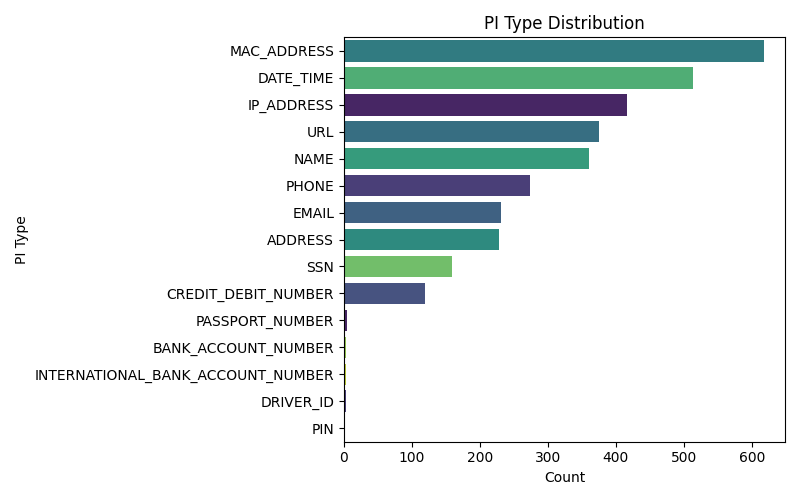
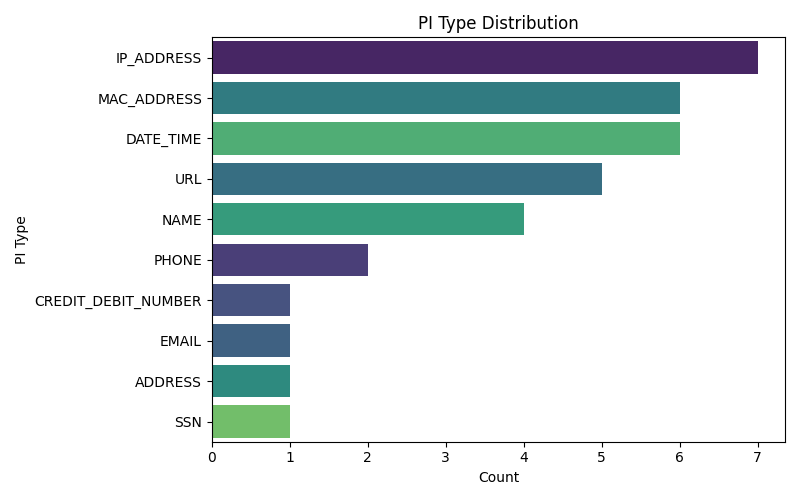
May 8, 2025, 1:12 PM

diff --git a/reports/PI_detection_report.md b/reports/PI_detection_report.md
@@ -1,18 +1,18 @@
 # PI Detection Report
-**Generated:** 2025-05-07 17:36:09
+**Generated:** 2025-05-08 13:12:19
 
 ## Summary Statistics
-- Total Detections: 3310
-- Unique PI Types: 15
-- Average Confidence: 0.9551
+- Total Detections: 34
+- Unique PI Types: 10
+- Average Confidence: 0.9358
 - Median Confidence: 1.0000
 - Fields with PI: 6
-- Rows with PI: 968
+- Rows with PI: 9
 
 ## Confidence Distribution
-- High Confidence (> 0.9): 87.1%
-- Medium Confidence (0.7 - 0.9): 6.7%
-- Low Confidence (<= 0.7): 6.2%
+- High Confidence (> 0.9): 85.3%
+- Medium Confidence (0.7 - 0.9): 0.0%
+- Low Confidence (<= 0.7): 14.7%
 
 ### Confidence Score Distribution Chart
 ![Confidence Score Distribution](../charts/confidence_distribution.png)
@@ -23,18 +23,13 @@
 ## Average Confidence by PI Type
 | PI Type | Avg Confidence | Count |
 |----------|----------------|-------|
-| IP_ADDRESS | 0.9342 | 417 |
-| PHONE | 0.8959 | 274 |
-| CREDIT_DEBIT_NUMBER | 0.9907 | 119 |
-| EMAIL | 0.9957 | 231 |
-| URL | 0.9649 | 375 |
-| MAC_ADDRESS | 0.8937 | 618 |
-| ADDRESS | 0.9930 | 228 |
-| NAME | 0.9937 | 360 |
-| DATE_TIME | 0.9969 | 514 |
-| SSN | 1.0000 | 159 |
-| BANK_ACCOUNT_NUMBER | 0.6145 | 3 |
-| INTERNATIONAL_BANK_ACCOUNT_NUMBER | 0.6412 | 3 |
-| PASSPORT_NUMBER | 0.6073 | 5 |
-| DRIVER_ID | 0.4821 | 3 |
-| PIN | 0.5142 | 1 |
+| IP_ADDRESS | 0.8353 | 7 |
+| PHONE | 0.8380 | 2 |
+| CREDIT_DEBIT_NUMBER | 1.0000 | 1 |
+| EMAIL | 0.5175 | 1 |
+| URL | 0.9836 | 5 |
+| MAC_ADDRESS | 0.9762 | 6 |
+| ADDRESS | 1.0000 | 1 |
+| NAME | 1.0000 | 4 |
+| DATE_TIME | 1.0000 | 6 |
+| SSN | 1.0000 | 1 |
